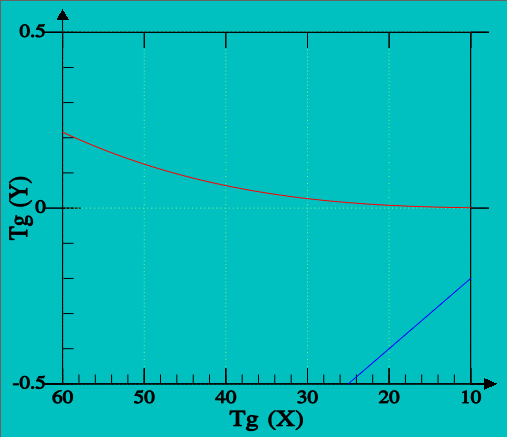
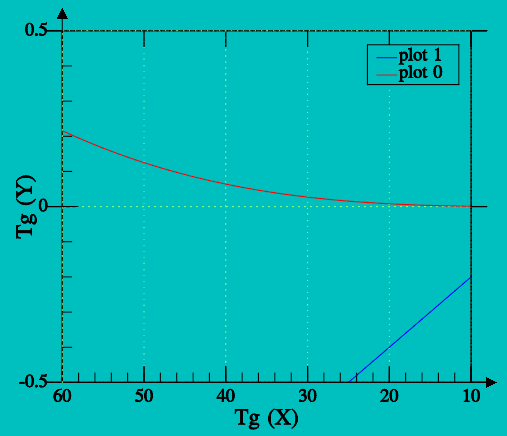
*** empty log message ***

diff --git a/html/en/ctrl/iup_mglplot.html b/html/en/ctrl/iup_mglplot.html
@@ -357,7 +357,8 @@ returns the last error message reported by MathGL.</p>
 <p><b><a href="../attrib/iup_fgcolor.html">FGCOLOR</a></b>:  the default color 
 used in all text elements of the plot: title, legend and labels. Default: &quot;0 0 0&quot;.</p>
 <p><strong>OPENGL</strong> (non inheritable): Enable or disable the rendering in 
-OpenGL. Default: Yes. When NO the rendering is slower and done in a RGB image.</p>
+OpenGL. Default: No. When NO the rendering is slower, but when Yes some features 
+does not behave as expected. See <a href="#KnownIssues">Known Issues</a>.</p>
 <p><b>REDRAW</b> (write-only)(non inheritable): redraw the plot and update the display. Value is 
 ignored. All other attributes will <span class="style1"><strong>NOT</strong></span> update the display, so you can set many 
 attributes without visual output. If the element is redraw by the system because 
@@ -755,23 +756,26 @@ IupPPlotTransform       -&gt; IupMglPlotTransform  (now includes z coordinate)
    (cdCanvasText)       -&gt; IupMglPlotDrawText
 IupPPlotPaintTo         -&gt; IupMglPlotPaintTo    (parameters are different)</pre>
 
-<h3>Known Issues</h3>
+<h3><a name="KnownIssues">Known Issues</a></h3>
 <ul>
 	<li>Selection and editing of a dataset using the DS_EDIT attribute are not 
 	implemented.</li>
 	<li>Automatic ticks computation needs to be improved.</li>
 	<li>There is still lots of MathGL features not available in IupMglPlot.</li>
-	<li><font SIZE="3">When OPENGL=Yes and ANTIALIAS=Yes 3D graphs will not 
-	process depth properly. (OpenGL configuration)</font></li>
-	<li>Graph is disappearing during zoom in, <font SIZE="3">when OPENGL=Yes</font>, 
-	after a zoom factor. Maybe a depth clipping.<font SIZE="3"> (OpenGL 
-	configuration)</font></li>
-	<li>The control of ticks being oriented inside or outside the graph is not 
-	working. (MathGL)</li>
-	<li>Bar graph is clipped at 0 and n-1. (MathGL)</li>
-	<li>When tick labels are specified all ticks are displayed. (MathGL)</li>
+	<li><font SIZE="3">When OPENGL=Yes and ANTIALIAS=Yes, 3D graphs will not 
+	process depth properly. (OpenGL configuration?)</font></li>
+	<li><font SIZE="3">When OPENGL=Yes</font>, Graph is disappearing during zoom in, after a zoom factor. Maybe a depth clipping 
+	problem.<font SIZE="3"> (OpenGL 
+	configuration?)</font></li>
+	<li><font SIZE="3">When OPENGL=Yes</font>, Legend box is not being 
+	displayed. (MathGL)</li>
 	<li><font SIZE="3">When OPENGL=Yes aspect ratio of text and marks are not 
 	respected.(MathGL)</font></li>
+	<li>The control of ticks being oriented inside or outside the graph is not 
+	working. (MathGL)</li>
+	<li>Bar graph is clipped at 0 and at n-1. (MathGL)</li>
+	<li>When tick labels are specified all ticks are displayed regardless of 
+	tick spacing configuration. (MathGL)</li>
 </ul>
 
 <h3><a name="SeeAlso">See Also</a></h3>

diff --git a/srcmglplot/iup_mglplot.cpp b/srcmglplot/iup_mglplot.cpp
@@ -468,6 +468,44 @@ static char* iMglPlotConfigPen(mglGraph *gr, char* pen, char line_style, float l
   return pen;
 }
 
+static char iMglPlotFindColor(const mglColor& c1)
+{
+  int i;
+  char id = 0;
+  mreal old_diff = -1, diff, rr, bb, gg;
+
+	for(i=0; mglColorIds[i].id; i++)
+  {
+    const mglColor& c2 = mglColorIds[i].col;
+    rr = c1.r-c2.r;
+    gg = c1.g-c2.g;
+    bb = c1.b-c2.b;
+    diff = rr*rr + gg*gg + bb*bb;
+    if (old_diff==-1 ||
+        diff < old_diff)
+    {
+      id = mglColorIds[i].id;
+      old_diff = diff;
+    }
+  }
+
+  //if (diff > XXX)
+  //  return 'k';
+  //else
+    return id;
+}
+
+static void iMglPlotConfigDataSetColor(IdataSet* ds, char* style)
+{
+  style += strlen(style); // Skip previous configuration
+
+  char id = iMglPlotFindColor(ds->dsColor);
+  if (id)
+    *style++ = id;
+
+  *style = 0;
+}
+
 static void iMglPlotConfigDataSetLineMark(IdataSet* ds, mglGraph *gr, char* style)
 {
   style += strlen(style); // Skip previous configuration
@@ -1579,8 +1617,9 @@ static void iMglPlotDrawLegend(Ihandle* ih, mglGraph *gr)
   {
     IdataSet* ds = &ih->data->dataSet[i];
 
-    //TODO
-    //iMglPlotConfigDataSetLineMark(ds, gr, style);
+    style[0] = 0;
+    iMglPlotConfigDataSetLineMark(ds, gr, style);
+    iMglPlotConfigDataSetColor(ds, style);
     gr->AddLegend(ds->dsLegend, style);
   }
 
@@ -1604,10 +1643,13 @@ static void iMglPlotDrawPlot(Ihandle* ih, mglGraph *gr)
   // Since this function will be used to draw on screen and
   // on metafile and bitmaps, all mglGraph control must be done here
   // and can NOT be done inside the attribute methods
-  gr->DefaultPlotParam();
 
   gr->Message = &(ih->data->ErrorMessage[0]);
   ih->data->ErrorMessage[0] = 0;
+
+  gr->DefaultPlotParam();
+
+  gr->Clf(ih->data->bgColor); /* Clear */
 
   iMglPlotConfigView(ih, gr);
 
@@ -1655,8 +1697,6 @@ static void iMglPlotRepaint(Ihandle* ih, int force, int flush)
 
   if (force || ih->data->redraw)
   {
-    ih->data->mgl->Clf(ih->data->bgColor); /* Clear */
-
     /* update render */
     iMglPlotDrawPlot(ih, ih->data->mgl);  /* Draw the graphics plot */
 
@@ -3634,7 +3674,11 @@ static int iMglPlotSetOpenGLAttrib(Ihandle* ih, const char* value)
       ih->data->mgl = new mglGraphGL();
     else
     {
-      iMglPlotInitOpenGL2D();
+      if (ih->handle)
+      {
+        IupGLMakeCurrent(ih);
+        iMglPlotInitOpenGL2D();
+      }
       ih->data->mgl = new mglGraphZB(ih->data->w, ih->data->h);
     }
   }
@@ -4789,10 +4833,9 @@ static int iMglPlotCreateMethod(Ihandle* ih, void **params)
   IupSetAttribute(ih, "BUFFER", "DOUBLE");
 
   ih->data->redraw = true;
-  ih->data->opengl = true;
   ih->data->w = 1;
   ih->data->h = 1;
-  ih->data->mgl = new mglGraphGL();
+  ih->data->mgl = new mglGraphZB(ih->data->w, ih->data->h);
 
   // Default values
   iMglPlotReset(ih);
@@ -4837,7 +4880,7 @@ static Iclass* iMglPlotNewClass(void)
   iupClassRegisterAttribute(ic, "REDRAW", NULL, iMglPlotSetRedrawAttrib, NULL, NULL, IUPAF_WRITEONLY|IUPAF_NO_INHERIT);
   iupClassRegisterAttribute(ic, "ALPHA", iMglPlotGetAlphaAttrib, iMglPlotSetAlphaAttrib, IUPAF_SAMEASSYSTEM, "0.5", IUPAF_NOT_MAPPED|IUPAF_NO_INHERIT);
   iupClassRegisterAttribute(ic, "TRANSPARENT", iMglPlotGetTransparentAttrib, iMglPlotSetTransparentAttrib, IUPAF_SAMEASSYSTEM, "No", IUPAF_NOT_MAPPED|IUPAF_NO_INHERIT);
-  iupClassRegisterAttribute(ic, "OPENGL", iMglPlotGetOpenGLAttrib, iMglPlotSetOpenGLAttrib, IUPAF_SAMEASSYSTEM, "Yes", IUPAF_NOT_MAPPED|IUPAF_NO_INHERIT);
+  iupClassRegisterAttribute(ic, "OPENGL", iMglPlotGetOpenGLAttrib, iMglPlotSetOpenGLAttrib, IUPAF_SAMEASSYSTEM, "No", IUPAF_NOT_MAPPED|IUPAF_NO_INHERIT);
   iupClassRegisterAttribute(ic, "ANTIALIAS", iMglPlotGetAntialiasAttrib, iMglPlotSetAntialiasAttrib, "Yes", NULL, IUPAF_NO_INHERIT);
   iupClassRegisterAttribute(ic, "MGLFONT", NULL, NULL, NULL, NULL, IUPAF_NOT_MAPPED|IUPAF_NO_INHERIT);
   iupClassRegisterAttribute(ic, "RESET", NULL, iMglPlotSetResetAttrib, NULL, NULL, IUPAF_WRITEONLY|IUPAF_NOT_MAPPED|IUPAF_NO_INHERIT);
@@ -5047,7 +5090,6 @@ void IupMglPlotOpen(void)
 
 To Release:
   LoadFont
-  Legend  
 
 Next Version:
   DS_EDIT+Selection+Callbacks
@@ -5064,8 +5106,10 @@ Maybe:
   Ternary
 
 MathGL:
-  ***improve autoticks computation
   evaluate interval, [-1,1] x [0,1] x [0,n-1]
+  ***improve autoticks computation
+  ***Legend does not work in OpenGL
+  ***Legend background is always white regardless of plot background
   ***gr->Box AND gr->ContFA have different results in OpenGL. 
      It seems to have an invalid depth. Without OpenGL works fine.
      SOLVED BY CALLING glEnable(GL_DEPTH_TEST), but this affected anti-aliasing.
@@ -5076,8 +5120,8 @@ MathGL:
      SetTickLen - documentation says negative len puts ticks outside the bounding box, but it is NOT working
      ***TicksVal should follow ticks spacing configuration 
   Fonts
-     ***font aspect ratio not being mantained
+     ***font aspect ratio not being mantained in OpenGL
      ***additional library to load TTF and OTF using FreeType
         vfm too slow to load font, need a binary format
-     ***option to draw an opaque background for text
+     option or function to draw an opaque background for text
 */

diff --git a/test/mglplot.c b/test/mglplot.c
@@ -12,8 +12,18 @@
 #include <string.h>
 #include <math.h>
 
+#define USE_IM 1
+#ifdef USE_IM
+#include "im.h"
+#include "im_image.h"
+#include "im_convert.h"
+#include "im_process.h"
+#endif
 
 #include "iup.h"
+#ifdef USE_IM
+#include "iupim.h"
+#endif
 #include "iupcontrols.h"
 #include "iup_mglplot.h"
 
@@ -556,19 +566,40 @@ static int dial2_btnup_cb(Ihandle *self, double angle)
   return IUP_DEFAULT;
 }
 
+#ifdef USE_IM
+static int bt1_cb(Ihandle* self)
+{
+  imImage* image;
+  int w, h;
+  void* gldata;
+  int ii = tabs_get_index();
+  IupGetIntInt(plot[ii], "DRAWSIZE", &w, &h);
+  gldata = malloc(w*h*3);
+  image = imImageCreate(w, h, IM_RGB, IM_BYTE);
+  IupMglPlotPaintTo(plot[ii], "RGB", w, h, 0, gldata);
+  imConvertPacking(gldata, image->data[0], w, h, 3, 3, IM_BYTE, 1);
+  imProcessFlip(image, image);
+  imFileImageSave("../mglplot.png", "PNG", image);
+  free(gldata);
+  imImageDestroy(image);
+  (void)self;
+  return IUP_DEFAULT;
+}
+#else
 static int bt1_cb(Ihandle *self)
 {
   int ii = tabs_get_index();
 //  IupSetAttribute(plot[ii], "CLEAR", "Yes");
 //  IupSetAttribute(plot[ii], "REMOVE", "0");
 //  IupSetAttribute(plot[ii], "ANTIALIAS", !IupGetInt(plot[ii], "ANTIALIAS")? "Yes": "No");
-//  IupSetAttribute(plot[ii], "OPENGL", !IupGetInt(plot[ii], "OPENGL")? "Yes": "No");
-//  IupSetAttribute(plot[ii], "REDRAW", NULL);
+  IupSetAttribute(plot[ii], "OPENGL", !IupGetInt(plot[ii], "OPENGL")? "Yes": "No");
+  IupSetAttribute(plot[ii], "REDRAW", NULL);
 
-  IupMglPlotPaintTo(plot[ii], "EPS", 0, 0, 0, "../mglplot.eps");
-  IupMglPlotPaintTo(plot[ii], "SVG", 0, 0, 0, "../mglplot.svg");
+//  IupMglPlotPaintTo(plot[ii], "EPS", 0, 0, 0, "../mglplot.eps");
+//  IupMglPlotPaintTo(plot[ii], "SVG", 0, 0, 0, "../mglplot.svg");
   return IUP_DEFAULT;
 }
+#endif
 
 void MglPlotTest(void)
 {

diff --git a/srcmglplot/mgl/mgl_ab.cpp b/srcmglplot/mgl/mgl_ab.cpp
@@ -516,20 +516,26 @@ void mglGraphAB::Legend(int n, wchar_t **text,char **style, mreal x, mreal y,
 	Push();	Identity(rel);	//	memcpy(B,B1,9*sizeof(mreal));
 	if(LegendBox)	// draw bounding box
 	{
+    mreal mw = w*0.1f;
+    mreal mh = h*0.1f;
 		pp[2] = pp[5] = pp[8] = pp[11] = pp[14] = s3-0.01;
-		pp[0] = pp[9] = pp[12] = x;		pp[3] = pp[6] = x+w;
-		pp[1] = pp[4] = pp[13] = y-0.*h;		pp[7] = pp[10] = y+h*n;
+		pp[0] = pp[9] = pp[12] = x-mw;		pp[3] = pp[6] = x+w+2*mw;
+		pp[1] = pp[4] = pp[13] = y-mh;		pp[7] = pp[10] = y+h*n+2*mh;
 //		for(i=0;i<5;i++)	ScalePoint(pp[3*i],pp[3*i+1],pp[3*i+2]);
 		SelectPen(TranspType!=2 ? "k-1":"w-1");
 		curv_plot(5,pp,0);	// bounding rectangle
 		pp[2] = pp[5] = pp[8] = pp[11] = s3-0.01;
-		pp[0] = pp[6] = x;			pp[3] = pp[9] = x+w;
-		pp[1] = pp[4] = y-0.*h;		pp[7] = pp[10] = y+h*n;
-		DefColor(mglColor(1,1,1),1);
+		pp[0] = pp[6] = x-mw;			pp[3] = pp[9] = x+w+2*mw;
+		pp[1] = pp[4] = y-mh;		pp[7] = pp[10] = y+h*n+2*mh;
+
+    
+		DefColor(mglColor(BDef[0]/255.0f,BDef[1]/255.0f,BDef[2]/255.0f),1);
+//		DefColor(mglColor(1,1,1),1);
 //		for(i=0;i<4;i++)	ScalePoint(pp[3*i],pp[3*i+1],pp[3*i+2]);
 		surf_plot(2,2,pp,0,0);		// white rectangle below it
 	}
 	ScalePuts = false;
+
 	for(i=0;i<n;i++)	// draw lines and legend
 	{
 		char m=SelectPen(style[i]);

diff --git a/srcmglplot/mgl/mgl_axis.cpp b/srcmglplot/mgl/mgl_axis.cpp
@@ -1005,6 +1005,9 @@ void mglGraph::Legend(int n, wchar_t **text,char **style, int where,
 		w = w>x ? w:x;
 	}
 	w = (w + 1.1f*llen*1.5);	// add space for lines
+  // Add margins
+  w += 2*w*0.1f;
+  h += 2*h*0.1f;
 
 	switch(where)
 	{
